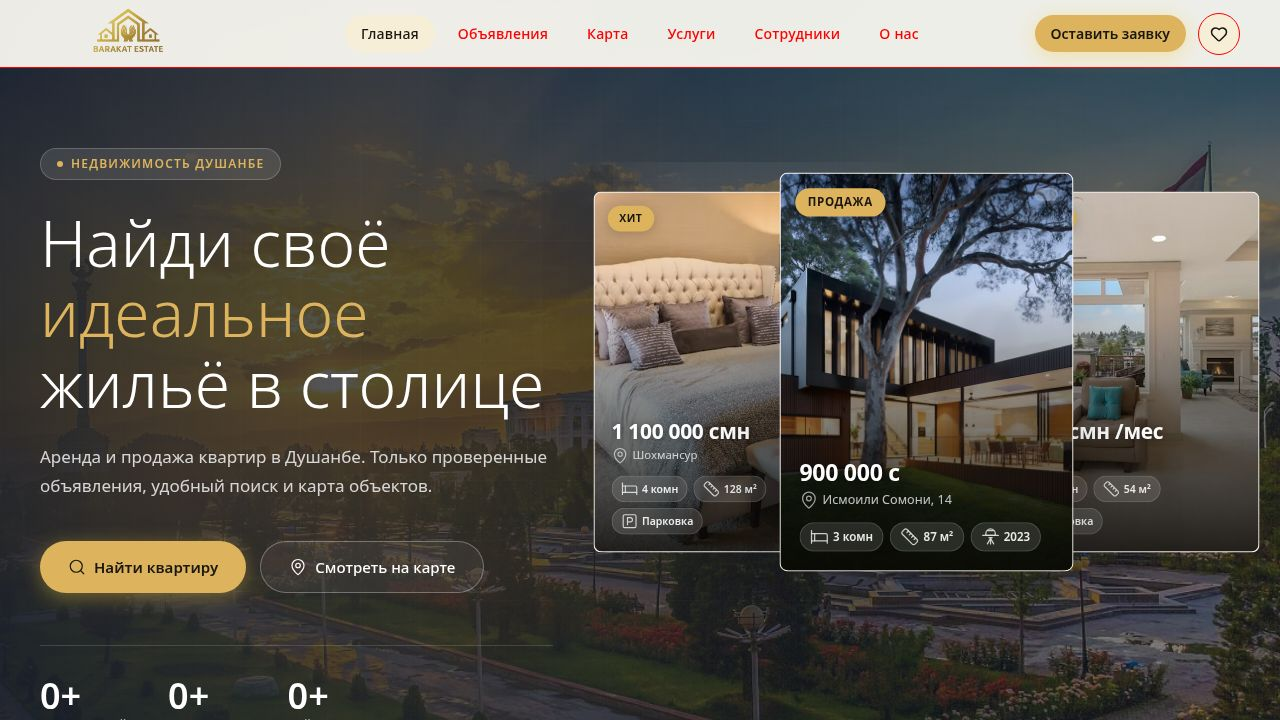
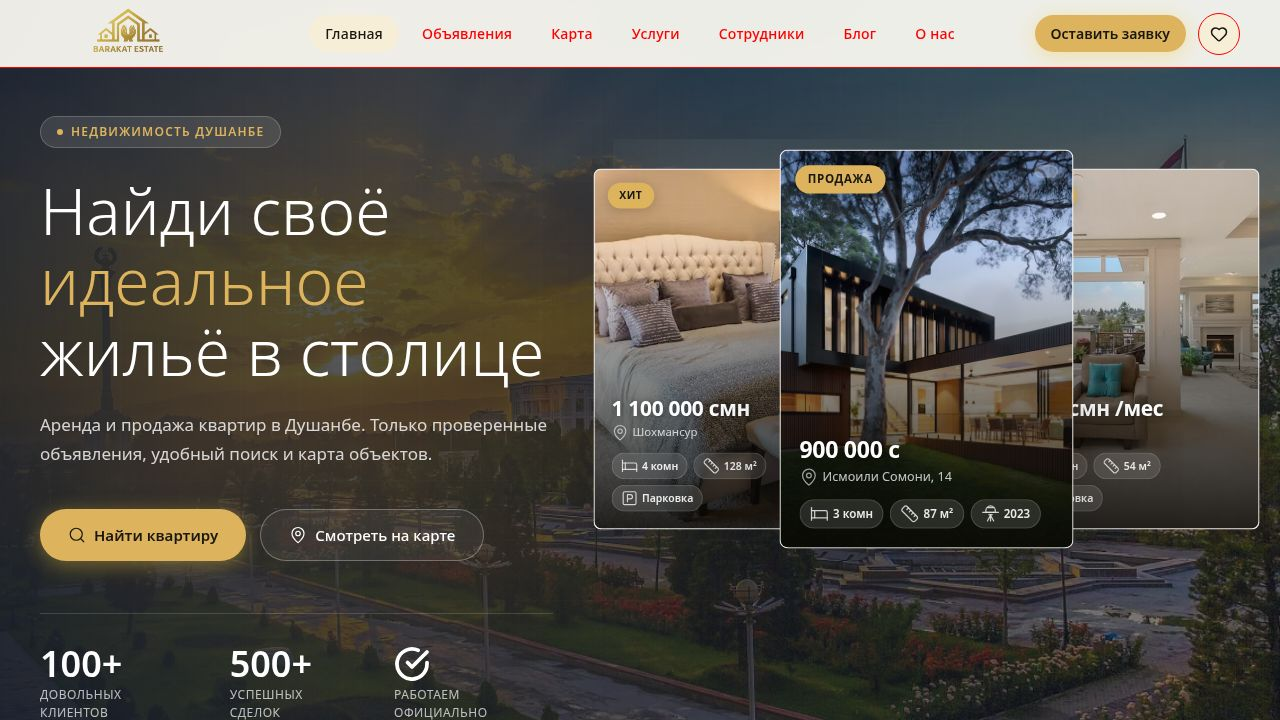
Update homepage to display admin-selected listings in the hero carousel
Fix issue where duplicate hydrateAuraPage definitions in aura-source.js led to the hero carousel not being populated with admin-selected listings. The active definition was modified to call hydrateHeroCarousel. Additionally, the admin dashboard UI was updated to allow users to mark listings for the hero carousel, and a visual indicator was added to the dashboard. A new memory file documenting this hydration issue was also created.

Replit-Commit-Author: Agent
Replit-Commit-Session-Id: 53c748d7-6e58-422b-bbb2-ab3cbe660da6
Replit-Commit-Checkpoint-Type: full_checkpoint
Replit-Commit-Event-Id: d485066f-f0eb-43a8-89bf-66af91af94bd
Replit-Commit-Screenshot-Url: https://storage.googleapis.com/screenshot-production-us-central1/7fdfdc46-6e6c-4e62-8683-59217b2c5725/53c748d7-6e58-422b-bbb2-ab3cbe660da6/MEGuiSh
Replit-Helium-Checkpoint-Created: true

diff --git a/artifacts/barakat-admin/src/components/UserDashboard.tsx b/artifacts/barakat-admin/src/components/UserDashboard.tsx
@@ -772,6 +772,11 @@ export default function UserDashboard() {
                                 Срочно
                               </span>
                             )}
+                            {item.isHero && (
+                              <span className="px-2.5 py-1 text-xs font-semibold rounded-md shadow-sm bg-emerald-100 text-emerald-700">
+                                В витрине
+                              </span>
+                            )}
                           </div>
                         </div>
                       )}
@@ -1611,14 +1616,17 @@ function renderForm(tab: Tab, form: FormState, loading: boolean, currentUser: Au
           </label>
 
           {currentUser?.role === "admin" && (
-            <label className="flex items-center gap-3 cursor-pointer group mt-6">
+            <label className="flex items-start gap-3 cursor-pointer group mt-6 bg-emerald-50 border border-emerald-200 rounded-xl px-4 py-3">
               <input 
                 type="checkbox" 
                 name="isHero" 
                 defaultChecked={item.isHero} 
-                className="w-5 h-5 rounded border-slate-300 text-emerald-500 focus:ring-emerald-500 cursor-pointer"
+                className="w-5 h-5 mt-0.5 rounded border-slate-300 text-emerald-500 focus:ring-emerald-500 cursor-pointer shrink-0"
               />
-              <span className="text-sm font-bold text-slate-700 group-hover:text-emerald-600 transition">На главной (витрина)</span>
+              <span className="flex flex-col">
+                <span className="text-sm font-bold text-slate-800 group-hover:text-emerald-700 transition">Показывать в витрине на главной</span>
+                <span className="text-xs text-slate-500 mt-0.5">Объявление попадёт в большую карусель в самом верху главной страницы сайта</span>
+              </span>
             </label>
           )}
         </div>

diff --git a/artifacts/barakat/public/aura-source.js b/artifacts/barakat/public/aura-source.js
@@ -1772,6 +1772,7 @@ window.hydrateAuraPage = async function(page) {
   if (page === 'home' || page === '') {
     setupHomeServices();
     renderCards('featured-grid', 6);
+    if (typeof hydrateHeroCarousel === 'function') hydrateHeroCarousel();
     if (typeof setupHomeCarousel === 'function') setupHomeCarousel();
     initYandexMaps();
     initRangeInputs();

diff --git a/.agents/memory/barakat-aura-source-hydration.md b/.agents/memory/barakat-aura-source-hydration.md
@@ -1,0 +1,22 @@
+---
+name: barakat aura-source.js hydration entrypoint
+description: aura-source.js has two hydrateAuraPage definitions; only the later window.* one runs
+---
+
+# barakat homepage hydration entrypoint
+
+`artifacts/barakat/public/aura-source.js` defines `hydrateAuraPage` twice; the later
+`window.hydrateAuraPage = ...` overrides the earlier `async function` declaration, and
+only the later one actually runs (`AuraRuntime.tsx` calls `window.hydrateAuraPage`).
+The earlier function is dead code.
+
+**Why it matters:** per-page hydration wired only into the earlier function silently
+never runs in the browser even though the code looks correct (this is how the homepage
+hero carousel kept showing hardcoded placeholders instead of DB listings).
+
+**How to apply:** add/edit homepage hydration in the *active* `window.hydrateAuraPage`
+block, not the earlier duplicate. Verify with a fresh browser screenshot, not just by
+curling the API — the API can be correct while the page is wrong.
+
+Aside: `?pagination[pageSize]=N` URLs need `curl -g` (brackets trigger curl globbing);
+browsers are unaffected.

diff --git a/.agents/memory/MEMORY.md b/.agents/memory/MEMORY.md
@@ -1,5 +1,2 @@
-# Memory Index
-
-- [Barakat lead service strings](barakat-lead-services.md) — site lead forms and admin category filters are joined ONLY by an exact `service` string; mismatches silently drop leads into "Другие".
-- [Admin dashboard tab-load races](barakat-admin-load-races.md) — async tab loaders must use a request-id guard or a late load overwrites the new tab's grid.
-- [Admin collection draft visibility](barakat-admin-collection-visibility.md) — admin read routes (GET list & by-id) must enforce auth/role too, not just writes, or drafts leak.
+- [barakat hydration entrypoint](barakat-aura-source-hydration.md) — aura-source.js has two hydrateAuraPage defs; only the later window.* one runs, edit that one.
+- [barakat admin collection visibility](barakat-admin-collection-visibility.md) — admin GET routes must enforce role==admin so drafts don't leak to public.